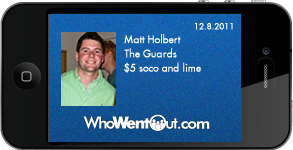
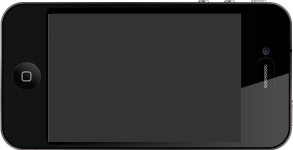
added deal preview when you check-in to an event

diff --git a/www/css/styles.less b/www/css/styles.less
@@ -391,3 +391,16 @@ td {
         margin: 15px 0;
     }
 }
+
+.deal_preview {
+    position: relative;
+    .phone {
+    }
+    .ticket {
+        position: absolute;
+        width: 195px;
+        left: 150px;
+        top: 15px;
+        z-index: 2;
+    }
+}

diff --git a/whowentout/views/deal_popup.tpl.php b/whowentout/views/deal_popup.tpl.php
@@ -1,9 +1,10 @@
 <form class="deal_popup" method="post" action="/events/deal_confirm">
     <h1>The deal will be sent to your phone on <?= $event->date->format('l') ?>!</h1>
-    <h4><span style="font-size: 20px;">&darr;</span> Show this to the bartender <span style="font-size: 20px;">&darr;</span></h4>
-    <input type="hidden" name="event_id" value="<?= $event->id ?>" />
+    <h4><span style="font-size: 20px;">&darr;</span> Show this to the bartender <span
+            style="font-size: 20px;">&darr;</span></h4>
+    <input type="hidden" name="event_id" value="<?= $event->id ?>"/>
 
-    <img alt="sample deal" src="/images/deal_popup.png?version=2"/>
+    <?= r::deal_preview(array('user' => $user, 'event' => $event)) ?>
 
     <div class="phone_number_field">
         <?php if ($user->cell_phone_number == null): ?>
@@ -11,16 +12,18 @@
             Enter your number so we can send you the deal:
         </label>
 
-        <input type="text" class="cell_phone_number" name="user[cell_phone_number]" value="<?= $user->cell_phone_number ?>"/>
+        <input type="text" class="cell_phone_number" name="user[cell_phone_number]"
+               value="<?= $user->cell_phone_number ?>"/>
         <?php else: ?>
-            <h3>
+        <h3>
             The deal will be sent to
-                <input type="text" class="cell_phone_number inline" name="user[cell_phone_number]" value="<?= $user->cell_phone_number ?>" />
-                <a href="#edit" class="edit_cell_phone_number">change</a>
-            </h3>
+            <input type="text" class="cell_phone_number inline" name="user[cell_phone_number]"
+                   value="<?= $user->cell_phone_number ?>"/>
+            <a href="#edit" class="edit_cell_phone_number">change</a>
+        </h3>
         <?php endif; ?>
     </div>
 
-    <input type="submit" value="Continue" />
+    <input type="submit" value="Continue"/>
 
 </form>

diff --git a/whowentout/controllers/events.controller.php b/whowentout/controllers/events.controller.php
@@ -26,14 +26,17 @@ class Events_Controller extends Controller
     function test()
     {
         /* @var $profile_picture ProfilePicture */
+        $event = db()->table('events')->row(2);
         $user = auth()->current_user();
-        $venue = 'McFaddens';
-        $deal = "Buy one beer get 2 free";
-        $date = '5.11.2012';
+        $venue = $event->place->name;
+        $deal = $event->deal;
+        $date = $event->date->format('m.d.Y');
         $profile_picture = factory()->build('profile_picture', $user);
 
-        $gen = new DealCouponGenerator();
-        $gen->generate($user, $profile_picture, $venue, $deal, $date);
+        $gen = new DealTicketGenerator();
+        $ticket = $gen->generate($user, $profile_picture, $venue, $deal, $date);
+
+        $ticket->saveToFile('./images/woo.png');
 
         print r::page(array(
             'content' => sprintf('<img src="%s" />', '/images/woo.png?version=' . time()),

diff --git a/whowentout/deal/deal_preview.display.php b/whowentout/deal/deal_preview.display.php
@@ -1,0 +1,28 @@
+<?php
+
+/**
+ * @property $event DatabaseRow
+ * @property $user DatabaseRow
+ */
+class Deal_Preview_Display extends Display
+{
+
+    function process()
+    {
+        $event = $this->event;
+        $user = $this->user;
+
+        $venue = $event->name;
+        $deal = $event->deal;
+        $date = $event->date->format('m.d.Y');
+        $profile_picture = factory()->build('profile_picture', $user);
+
+        $gen = new DealTicketGenerator();
+        $ticket = $gen->generate($user, $profile_picture, $venue, $deal, $date);
+
+        $this->ticket_url = "/tickets/ticket_{$event->id}_{$user->id}.png";
+
+        $ticket->saveToFile('.' . $this->ticket_url);
+    }
+
+}

diff --git a/whowentout/deal/deal_ticket_generator.php b/whowentout/deal/deal_ticket_generator.php
@@ -1,8 +1,17 @@
 <?php
 
-class DealCouponGenerator
+class DealTicketGenerator
 {
 
+    /**
+     * @param DatabaseRow $user
+     * @param ProfilePicture $picture
+     * @param $venue
+     * @param $deal
+     * @param $date
+     *
+     * @return WideImage_Image
+     */
     function generate(DatabaseRow $user, ProfilePicture $picture, $venue, $deal, $date)
     {
         $ticket = $this->blank_ticket();
@@ -18,7 +27,7 @@ class DealCouponGenerator
 
         $this->print_date($ticket, $date);
 
-        $ticket->saveToFile('./images/woo.png');
+        return $ticket;
     }
 
     private function print_picture(WideImage_Image &$ticket, $picture)

diff --git a/whowentout/deal/deal_preview.tpl.php b/whowentout/deal/deal_preview.tpl.php
@@ -1,0 +1,4 @@
+<div class="deal_preview">
+    <img class="phone" alt="sample deal" src="/images/deal_popup.png?version=3"/>
+    <img class="ticket" src="<?= $ticket_url ?>"/>
+</div>
